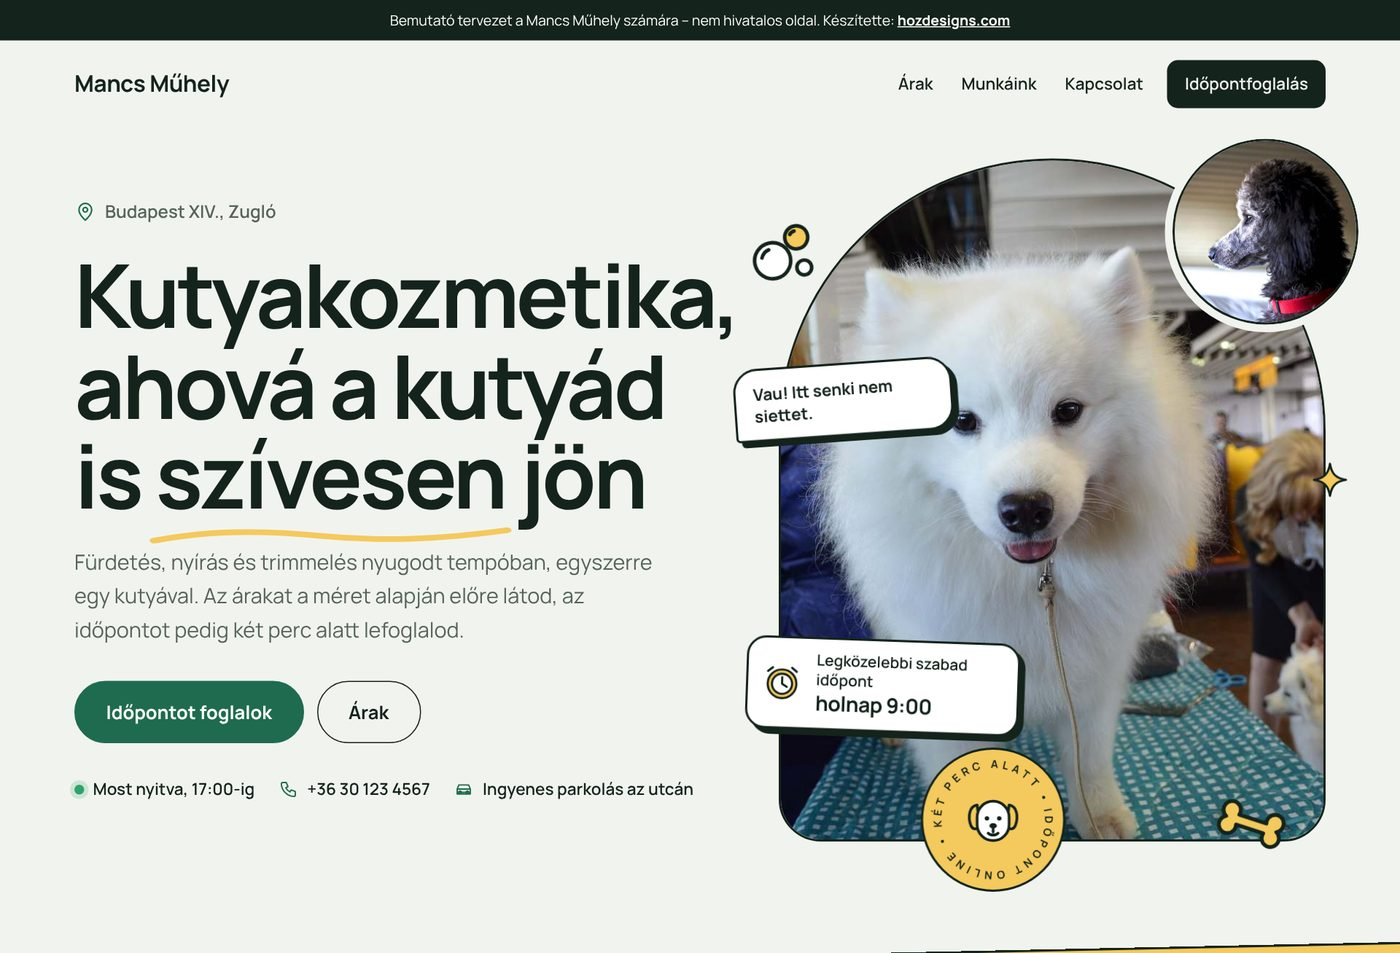
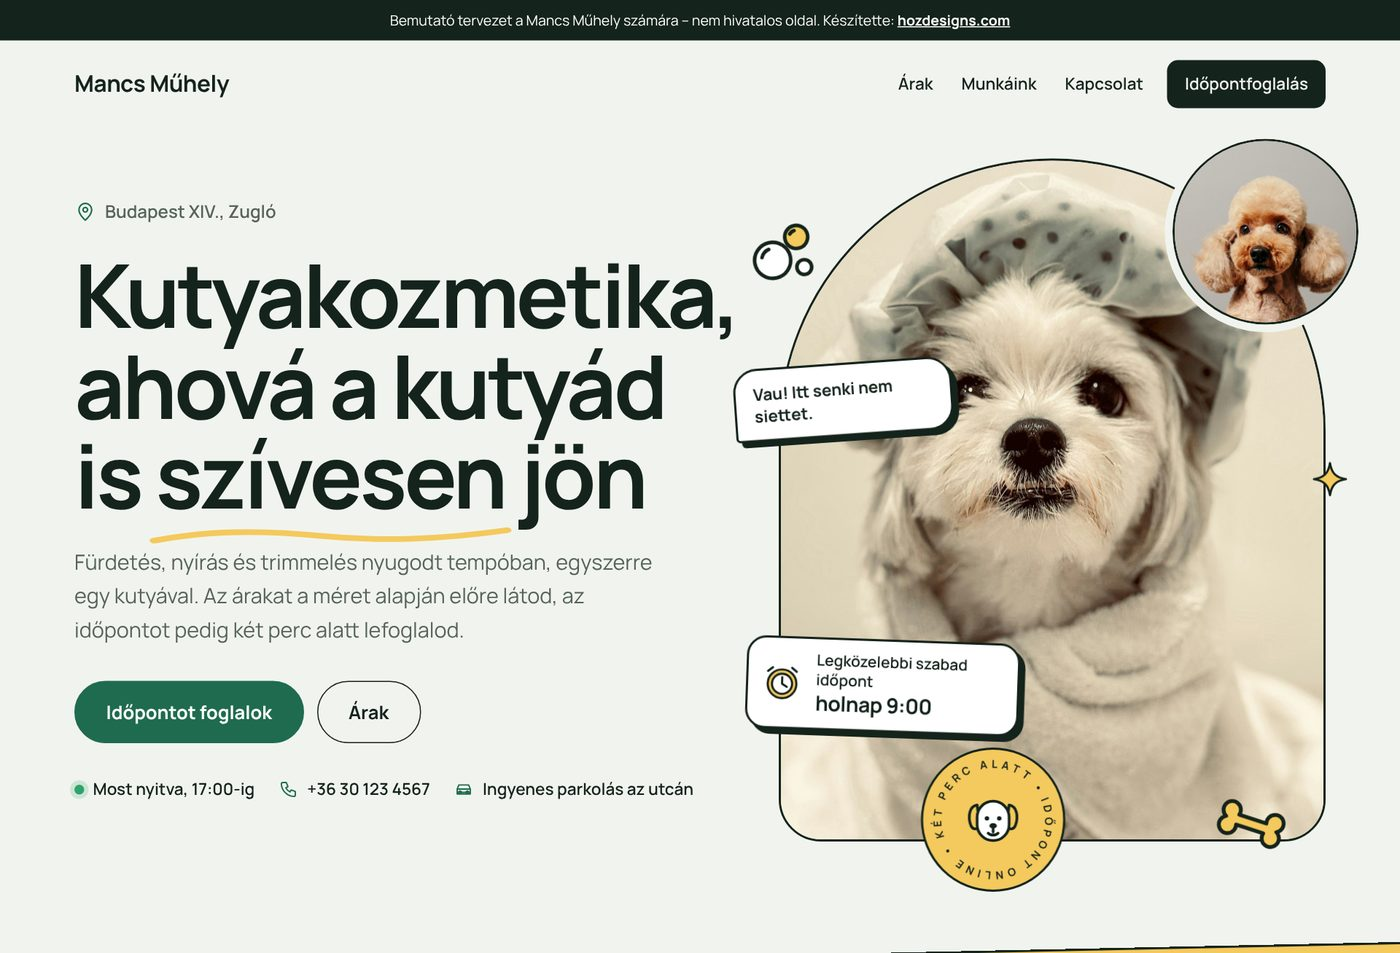
teszt-kutyakozmetika: jobb képanyag, emelkedő hover a kártyákon
Claude-Session: https://claude.ai/code/session_016Run1nACTgNtgLbjaBZxC9

Changed region(s): [[0.5529, 0.1217, 0.9829, 0.9129], [0.7064, 0.9129, 0.7371, 0.9433], [0.6757, 0.8825, 0.7064, 0.9129]]

diff --git a/minta/teszt-kutyakozmetika/index.html b/minta/teszt-kutyakozmetika/index.html
@@ -441,6 +441,17 @@ footer b{color:var(--ink)}
   .hpic .spin{width:104px;height:104px;bottom:-36px;left:8%}.hpic .spin .dd{width:42px;height:42px}.hpic .spin text{font-size:16px}
 }
 .k-kutya main{overflow-x:clip}
+/* emelkedő kártyák */
+.cares div,.know div,.loy .card,.works button,.team div{transition:transform .25s cubic-bezier(.2,.7,.2,1),box-shadow .25s}
+@media (hover:hover) and (pointer:fine){
+  .cares div:hover{transform:translate(-3px,-7px);box-shadow:10px 12px 0 var(--ink)}
+  .know div:hover{transform:translateY(-6px);box-shadow:0 18px 34px -20px rgba(0,0,0,.4)}
+  .loy .card:hover{transform:rotate(0deg) translateY(-8px);box-shadow:10px 14px 0 var(--ink)}
+  .works button:hover{transform:translateY(-6px);box-shadow:0 18px 34px -20px rgba(0,0,0,.45)}
+  .team div:hover{transform:translateY(-3px)}
+  .cares div:hover .dd,.know div:hover .dd{transform:rotate(-10deg) scale(1.12)}
+}
+.cares .dd,.know .dd{transition:transform .35s cubic-bezier(.3,1.6,.5,1)}
 </style>
 </head>
 <body class="k-kutya s-alap t-alap">
@@ -458,7 +469,7 @@ footer b{color:var(--ink)}
     <div class="cta"><a class="btn" href="#foglalas">Időpontot foglalok</a><a class="btn line" href="#arak">Árak</a></div>
     <div class="meta"><span><i class="dot"></i><span data-open></span></span><span><svg class="ico" aria-hidden="true"><use href="#i-phone"/></svg>+36 30 123 4567</span><span><svg class="ico" aria-hidden="true"><use href="#i-car"/></svg>Ingyenes parkolás az utcán</span></div>
   </div>
-  <div class="hpic"><div class="a"><img src="img/d1.jpg" alt="Szamojéd fürdetés után" width="748" height="1125"></div><div class="b"><img src="img/d5.jpg" alt="Fekete uszkár nyírás után" width="900" height="675"></div><p class="say">Vau! Itt senki nem siettet.</p><a class="spin" href="#foglalas" aria-label="Időpontfoglalás"><svg viewBox="0 0 200 200" aria-hidden="true"><defs><path id="spinp" d="M100 100m-74 0a74 74 0 1 1 148 0a74 74 0 1 1-148 0"/></defs><text><textPath href="#spinp" textLength="455" lengthAdjust="spacing">IDŐPONT ONLINE • KÉT PERC ALATT •</textPath></text></svg><svg class="dd" viewBox="0 0 48 48" aria-hidden="true"><use href="#d-dogface"/></svg></a><p class="next"><svg class="dd" viewBox="0 0 48 48" aria-hidden="true"><use href="#d-clock"/></svg><span>Legközelebbi szabad időpont<b data-next></b></span></p><svg class="dd fl f1" viewBox="0 0 48 48" aria-hidden="true"><use href="#d-bubbles"/></svg><svg class="dd fl f2" viewBox="0 0 48 48" aria-hidden="true"><use href="#d-bone"/></svg><svg class="dd fl f3" viewBox="0 0 48 48" aria-hidden="true"><use href="#d-star"/></svg></div>
+  <div class="hpic"><div class="a"><img src="img/u49.jpg" alt="Fürdetés után, törölközőben" width="1200" height="1718"></div><div class="b"><img src="img/u15.jpg" alt="Uszkár nyírás után" width="1200" height="1800"></div><p class="say">Vau! Itt senki nem siettet.</p><a class="spin" href="#foglalas" aria-label="Időpontfoglalás"><svg viewBox="0 0 200 200" aria-hidden="true"><defs><path id="spinp" d="M100 100m-74 0a74 74 0 1 1 148 0a74 74 0 1 1-148 0"/></defs><text><textPath href="#spinp" textLength="455" lengthAdjust="spacing">IDŐPONT ONLINE • KÉT PERC ALATT •</textPath></text></svg><svg class="dd" viewBox="0 0 48 48" aria-hidden="true"><use href="#d-dogface"/></svg></a><p class="next"><svg class="dd" viewBox="0 0 48 48" aria-hidden="true"><use href="#d-clock"/></svg><span>Legközelebbi szabad időpont<b data-next></b></span></p><svg class="dd fl f1" viewBox="0 0 48 48" aria-hidden="true"><use href="#d-bubbles"/></svg><svg class="dd fl f2" viewBox="0 0 48 48" aria-hidden="true"><use href="#d-bone"/></svg><svg class="dd fl f3" viewBox="0 0 48 48" aria-hidden="true"><use href="#d-star"/></svg></div>
 </section>
 <div class="mq" aria-hidden="true"><div class="tr"><span>Fürdetés és szárítás</span><svg class="dd" viewBox="0 0 48 48" aria-hidden="true"><use href="#d-bone"/></svg><span>Fürdetés és gépi nyírás</span><svg class="dd" viewBox="0 0 48 48" aria-hidden="true"><use href="#d-scissors"/></svg><span>Fürdetés és ollós nyírás</span><svg class="dd" viewBox="0 0 48 48" aria-hidden="true"><use href="#d-bubbles"/></svg><span>Trimmelés</span><svg class="dd" viewBox="0 0 48 48" aria-hidden="true"><use href="#d-bow"/></svg><span>Karomvágás</span><svg class="dd" viewBox="0 0 48 48" aria-hidden="true"><use href="#d-star"/></svg><span>Fogkőeltávolítás ultrahanggal</span><svg class="dd" viewBox="0 0 48 48" aria-hidden="true"><use href="#d-ball"/></svg><span>Bontás, filcmentesítés</span><svg class="dd" viewBox="0 0 48 48" aria-hidden="true"><use href="#d-comb"/></svg><span>Kölyök első kozmetika</span><svg class="dd" viewBox="0 0 48 48" aria-hidden="true"><use href="#d-heart"/></svg><span>Fürdetés és szárítás</span><svg class="dd" viewBox="0 0 48 48" aria-hidden="true"><use href="#d-bone"/></svg><span>Fürdetés és gépi nyírás</span><svg class="dd" viewBox="0 0 48 48" aria-hidden="true"><use href="#d-scissors"/></svg><span>Fürdetés és ollós nyírás</span><svg class="dd" viewBox="0 0 48 48" aria-hidden="true"><use href="#d-bubbles"/></svg><span>Trimmelés</span><svg class="dd" viewBox="0 0 48 48" aria-hidden="true"><use href="#d-bow"/></svg><span>Karomvágás</span><svg class="dd" viewBox="0 0 48 48" aria-hidden="true"><use href="#d-star"/></svg><span>Fogkőeltávolítás ultrahanggal</span><svg class="dd" viewBox="0 0 48 48" aria-hidden="true"><use href="#d-ball"/></svg><span>Bontás, filcmentesítés</span><svg class="dd" viewBox="0 0 48 48" aria-hidden="true"><use href="#d-comb"/></svg><span>Kölyök első kozmetika</span><svg class="dd" viewBox="0 0 48 48" aria-hidden="true"><use href="#d-heart"/></svg></div></div>
 
@@ -516,9 +527,9 @@ footer b{color:var(--ink)}
   </div>
 </section>
 
-<section class="wrap sec" id="munkaink"><div class="sech"><h2>Előtte és utána</h2><p>Húzd el a csúszkát: bal oldalon az érkezés, jobb oldalon a hazaindulás.</p></div><div class="pairs"><figure style="margin:0"><div class="ba"><img src="img/d7.jpg" alt="Előtte" width="900" height="598" loading="lazy"><img src="img/d4.jpg" alt="Utána" width="900" height="675" loading="lazy" class="af"><span class="tag l">Előtte</span><span class="tag r">Utána</span><input type="range" min="0" max="100" value="50" aria-label="Előtte–utána összehasonlítás: Uszkár – fürdetés és ollós nyírás"><span class="knob" aria-hidden="true"><svg class="dd" viewBox="0 0 48 48" aria-hidden="true"><use href="#d-scissors"/></svg></span></div><figcaption class="bacap">Uszkár – fürdetés és ollós nyírás</figcaption></figure><figure style="margin:0"><div class="ba"><img src="img/d10.jpg" alt="Előtte" width="900" height="600" loading="lazy"><img src="img/d11.jpg" alt="Utána" width="900" height="598" loading="lazy" class="af"><span class="tag l">Előtte</span><span class="tag r">Utána</span><input type="range" min="0" max="100" value="50" aria-label="Előtte–utána összehasonlítás: Spániel – fürdetés és fazonigazítás"><span class="knob" aria-hidden="true"><svg class="dd" viewBox="0 0 48 48" aria-hidden="true"><use href="#d-scissors"/></svg></span></div><figcaption class="bacap">Spániel – fürdetés és fazonigazítás</figcaption></figure></div><div class="works" style="margin-top:20px"><button type="button" data-lb="d9" aria-label="Kínai meztelenkutya fazonigazítás után – nagyítás"><img src="img/d9.jpg" alt="Kínai meztelenkutya fazonigazítás után" width="844" height="1125" loading="lazy"></button><button type="button" data-lb="d8" aria-label="Fehér bichon – nagyítás"><img src="img/d8.jpg" alt="Fehér bichon" width="900" height="900" loading="lazy"></button><button type="button" data-lb="d2" aria-label="Munka közben – nagyítás"><img src="img/d2.jpg" alt="Munka közben" width="900" height="674" loading="lazy"></button><button type="button" data-lb="d11" aria-label="Cocker spániel – nagyítás"><img src="img/d11.jpg" alt="Cocker spániel" width="900" height="598" loading="lazy"></button><button type="button" data-lb="d4" aria-label="Szürke uszkár – nagyítás"><img src="img/d4.jpg" alt="Szürke uszkár" width="900" height="675" loading="lazy"></button></div></section>
+<section class="wrap sec" id="munkaink"><div class="sech"><h2>Akik már jártak nálunk</h2></div><div class="works" style="margin-top:0px"><button type="button" data-lb="u6" aria-label="Shih tzu friss fazonnal – nagyítás"><img src="img/u6.jpg" alt="Shih tzu friss fazonnal" width="1200" height="1200" loading="lazy"></button><button type="button" data-lb="u106" aria-label="Szamojéd fürdetés és szárítás után – nagyítás"><img src="img/u106.jpg" alt="Szamojéd fürdetés és szárítás után" width="1200" height="1500" loading="lazy"></button><button type="button" data-lb="u38" aria-label="Yorkshire terrier – nagyítás"><img src="img/u38.jpg" alt="Yorkshire terrier" width="1200" height="1500" loading="lazy"></button><button type="button" data-lb="u39" aria-label="Uszkár keverék nyírás után – nagyítás"><img src="img/u39.jpg" alt="Uszkár keverék nyírás után" width="1200" height="1200" loading="lazy"></button><button type="button" data-lb="u37" aria-label="Shih tzu – nagyítás"><img src="img/u37.jpg" alt="Shih tzu" width="1200" height="1200" loading="lazy"></button></div></section>
 <section class="wrap sec"><div class="sech"><h2>Akire külön figyelünk</h2></div><div class="cares"><div><svg class="dd" viewBox="0 0 48 48" aria-hidden="true"><use href="#d-treat"/></svg><h3>Kölykök</h3><p>Az első alkalom csak ismerkedés: rövid, játékos, hogy legközelebb is szívesen jöjjön.</p></div><div><svg class="dd" viewBox="0 0 48 48" aria-hidden="true"><use href="#d-heart"/></svg><h3>Félős kutyák</h3><p>Több szünet, halkabb gépek, és ha kell, a gazdi is bent maradhat.</p></div><div><svg class="dd" viewBox="0 0 48 48" aria-hidden="true"><use href="#d-clock"/></svg><h3>Idős kutyák</h3><p>Csúszásmentes asztal, rövidebb állás, annyi pihenő, amennyi kell.</p></div></div></section>
-<section class="wrap sec"><div class="about"><div class="pic"><img src="img/d2.jpg" alt="Kozmetikus munka közben" width="900" height="674" loading="lazy"><svg class="dd fl" viewBox="0 0 48 48" aria-hidden="true"><use href="#d-heart"/></svg></div><div><h2>Egyszerre egy kutya, annyi idő, amennyi kell</h2><p class="lead">Nálunk nincs futószalag: a kutyád nem vár ketrecben, a kozmetika végig vele foglalkozik. A félős és idős kutyáknak több szünetet tartunk.</p><div class="team"><div><i><svg class="dd" viewBox="0 0 48 48" aria-hidden="true"><use href="#d-dogface"/></svg></i><span><b>Réka</b><span>kutyakozmetikus</span></span></div><div><i><svg class="dd" viewBox="0 0 48 48" aria-hidden="true"><use href="#d-dogface"/></svg></i><span><b>Dóri</b><span>kutyakozmetikus</span></span></div></div></div></div></section>
+<section class="wrap sec"><div class="about"><div class="pic"><img src="img/u0.jpg" alt="Ollózás közben" width="1200" height="800" loading="lazy"><svg class="dd fl" viewBox="0 0 48 48" aria-hidden="true"><use href="#d-heart"/></svg></div><div><h2>Egyszerre egy kutya, annyi idő, amennyi kell</h2><p class="lead">Nálunk nincs futószalag: a kutyád nem vár ketrecben, a kozmetika végig vele foglalkozik. A félős és idős kutyáknak több szünetet tartunk.</p><div class="team"><div><i><svg class="dd" viewBox="0 0 48 48" aria-hidden="true"><use href="#d-dogface"/></svg></i><span><b>Réka</b><span>kutyakozmetikus</span></span></div><div><i><svg class="dd" viewBox="0 0 48 48" aria-hidden="true"><use href="#d-dogface"/></svg></i><span><b>Dóri</b><span>kutyakozmetikus</span></span></div></div></div></div></section>
 <section class="wrap sec"><div class="loy"><div><h2>Minden hatodik fürdetés ajándék</h2><p>A törzskártyádra minden kozmetika után csontot nyomunk. Ha összegyűlt öt, a hatodik fürdetést mi álljuk.</p></div><div class="card" aria-hidden="true"><b>Mancs Műhely</b><div class="st"><i class="on"><svg class="dd" viewBox="0 0 48 48" aria-hidden="true"><use href="#d-bone"/></svg></i><i class="on"><svg class="dd" viewBox="0 0 48 48" aria-hidden="true"><use href="#d-bone"/></svg></i><i class="on"><svg class="dd" viewBox="0 0 48 48" aria-hidden="true"><use href="#d-bone"/></svg></i><i class=""><svg class="dd" viewBox="0 0 48 48" aria-hidden="true"><use href="#d-bone"/></svg></i><i class=""><svg class="dd" viewBox="0 0 48 48" aria-hidden="true"><use href="#d-bone"/></svg></i><i class="gift"><svg class="dd" viewBox="0 0 48 48" aria-hidden="true"><use href="#d-treat"/></svg></i></div><small>törzsvásárlói kártya</small></div></div></section>
 <section class="wrap sec"><div class="sech"><h2>Jó tudni érkezés előtt</h2></div><div class="know"><div><svg class="dd" viewBox="0 0 48 48" aria-hidden="true"><use href="#d-tag"/></svg><b>Oltási könyv</b><p>Az első alkalommal hozd magaddal az oltási könyvet.</p></div><div><svg class="dd" viewBox="0 0 48 48" aria-hidden="true"><use href="#d-ball"/></svg><b>Érkezés</b><p>Elég 5 perccel korábban jönnöd, a kutyát sétáltasd meg előtte.</p></div><div><svg class="dd" viewBox="0 0 48 48" aria-hidden="true"><use href="#d-bone"/></svg><b>Fizetés</b><p>Készpénzzel és bankkártyával is fizethetsz.</p></div></div></section>
 
@@ -540,7 +551,7 @@ footer b{color:var(--ink)}
       <div><h4>Nyitvatartás</h4><ul class="hrs"><li><span>Hétfő</span><span>9:00–17:00</span></li><li><span>Kedd</span><span>9:00–17:00</span></li><li><span>Szerda</span><span>9:00–17:00</span></li><li><span>Csütörtök</span><span>9:00–18:00</span></li><li><span>Péntek</span><span>9:00–17:00</span></li><li><span>Szombat</span><span>9:00–13:00</span></li><li><span>Vasárnap</span><span>zárva</span></li></ul></div>
       <div><h4>Elérhetőség</h4><ul><li>1145 Budapest, Példa utca 12.</li><li><a href="tel:+36301234567">+36 30 123 4567</a></li><li><a href="mailto:hello@mancsmuhely.example">hello@mancsmuhely.example</a></li></ul></div>
     </div>
-    <div class="legal"><span>© Mancs Műhely</span><span>Fotók: Wikimedia Commons (CC BY / CC BY-SA) – helykitöltő mintaképek</span><span>Weboldal-tervezet: <a href="https://hozdesigns.com">hozdesigns.com</a></span></div>
+    <div class="legal"><span>© Mancs Műhely</span><span>Fotók: Unsplash – helykitöltő mintaképek</span><span>Weboldal-tervezet: <a href="https://hozdesigns.com">hozdesigns.com</a></span></div>
   </div>
 </footer>
 <div class="lb" role="dialog" aria-modal="true" aria-label="Fotók" data-lbox>
@@ -601,7 +612,7 @@ footer b{color:var(--ink)}
 <symbol id="i-bag" viewBox="0 0 24 24"><path d="M5 8h14l-1 12H6L5 8zM9 8V6.5a3 3 0 0 1 6 0V8"/></symbol>
 </defs></svg>
 
-<script type="application/json" id="hzdata">{"sizes": [{"name": "Kistestű", "note": "10 kg-ig"}, {"name": "Közepes", "note": "10–25 kg"}, {"name": "Nagytestű", "note": "25–40 kg"}, {"name": "Óriás", "note": "40 kg felett"}], "cats": [{"cat": "Teljes kozmetika", "items": [{"name": "Fürdetés és szárítás", "desc": "Bőrbarát samponnal, kifésülve, fültisztítással", "min": [45, 60, 75, 90], "price": [6500, 8500, 11000, 14000], "id": "s0"}, {"name": "Fürdetés és gépi nyírás", "desc": "Fazonra vagy rövidre, a fajtának megfelelően", "min": [75, 90, 120, 150], "price": [9500, 12500, 16000, 21000], "id": "s1"}, {"name": "Fürdetés és ollós nyírás", "desc": "Kézzel formázott fazon, uszkároknak, bichonoknak", "min": [90, 120, 150, 180], "price": [12000, 15500, 19500, 25000], "from": true, "id": "s2"}, {"name": "Trimmelés", "desc": "Szálkás szőrű fajtáknak, kézzel", "min": [90, 120, 150, 150], "price": [13000, 16500, 21000, 21000], "from": true, "id": "s3"}], "dd": "scissors"}, {"cat": "Kiegészítők", "items": [{"name": "Karomvágás", "min": 10, "price": 2000, "id": "s4"}, {"name": "Fogkőeltávolítás ultrahanggal", "desc": "Altatás nélkül, nyugodt kutyáknak", "min": 30, "price": 9000, "id": "s5"}, {"name": "Bontás, filcmentesítés", "desc": "Negyedóránként számolva", "min": 15, "price": 2500, "from": true, "id": "s6"}, {"name": "Kölyök első kozmetika", "desc": "5 hónapos korig, ismerkedős tempóban", "min": 45, "price": 6000, "id": "s7"}], "dd": "star"}], "step": 30, "size0": 1, "demoDog": null, "demoBreed": null, "slug": "teszt-kutyakozmetika", "gal": [["d1", "Szamojéd fürdetés után"], ["d5", "Fekete uszkár nyírás után"], ["d9", "Kínai meztelenkutya fazonigazítás után"], ["d8", "Fehér bichon"], ["d2", "Munka közben"], ["d11", "Cocker spániel"], ["d4", "Szürke uszkár"]], "hours": [["9:00", "17:00"], ["9:00", "17:00"], ["9:00", "17:00"], ["9:00", "18:00"], ["9:00", "17:00"], ["9:00", "13:00"], null]}</script>
+<script type="application/json" id="hzdata">{"sizes": [{"name": "Kistestű", "note": "10 kg-ig"}, {"name": "Közepes", "note": "10–25 kg"}, {"name": "Nagytestű", "note": "25–40 kg"}, {"name": "Óriás", "note": "40 kg felett"}], "cats": [{"cat": "Teljes kozmetika", "items": [{"name": "Fürdetés és szárítás", "desc": "Bőrbarát samponnal, kifésülve, fültisztítással", "min": [45, 60, 75, 90], "price": [6500, 8500, 11000, 14000], "id": "s0"}, {"name": "Fürdetés és gépi nyírás", "desc": "Fazonra vagy rövidre, a fajtának megfelelően", "min": [75, 90, 120, 150], "price": [9500, 12500, 16000, 21000], "id": "s1"}, {"name": "Fürdetés és ollós nyírás", "desc": "Kézzel formázott fazon, uszkároknak, bichonoknak", "min": [90, 120, 150, 180], "price": [12000, 15500, 19500, 25000], "from": true, "id": "s2"}, {"name": "Trimmelés", "desc": "Szálkás szőrű fajtáknak, kézzel", "min": [90, 120, 150, 150], "price": [13000, 16500, 21000, 21000], "from": true, "id": "s3"}], "dd": "scissors"}, {"cat": "Kiegészítők", "items": [{"name": "Karomvágás", "min": 10, "price": 2000, "id": "s4"}, {"name": "Fogkőeltávolítás ultrahanggal", "desc": "Altatás nélkül, nyugodt kutyáknak", "min": 30, "price": 9000, "id": "s5"}, {"name": "Bontás, filcmentesítés", "desc": "Negyedóránként számolva", "min": 15, "price": 2500, "from": true, "id": "s6"}, {"name": "Kölyök első kozmetika", "desc": "5 hónapos korig, ismerkedős tempóban", "min": 45, "price": 6000, "id": "s7"}], "dd": "star"}], "step": 30, "size0": 1, "demoDog": null, "demoBreed": null, "slug": "teszt-kutyakozmetika", "gal": [["u49", "Fürdetés után, törölközőben"], ["u15", "Uszkár nyírás után"], ["u6", "Shih tzu friss fazonnal"], ["u106", "Szamojéd fürdetés és szárítás után"], ["u38", "Yorkshire terrier"], ["u39", "Uszkár keverék nyírás után"], ["u37", "Shih tzu"], ["u0", "Ollózás közben"]], "hours": [["9:00", "17:00"], ["9:00", "17:00"], ["9:00", "17:00"], ["9:00", "18:00"], ["9:00", "17:00"], ["9:00", "13:00"], null]}</script>
 <script>/* közös segédek a szolgáltatós demókhoz (kutyakozmetika, esküvő, borászat) */
 var HZ = (function () {
   var D = JSON.parse(document.getElementById('hzdata').textContent);
